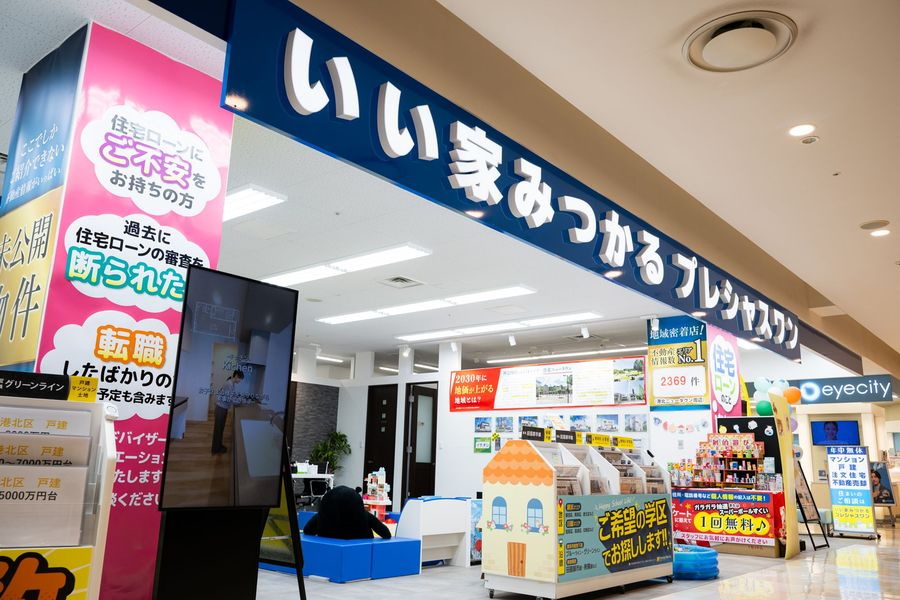
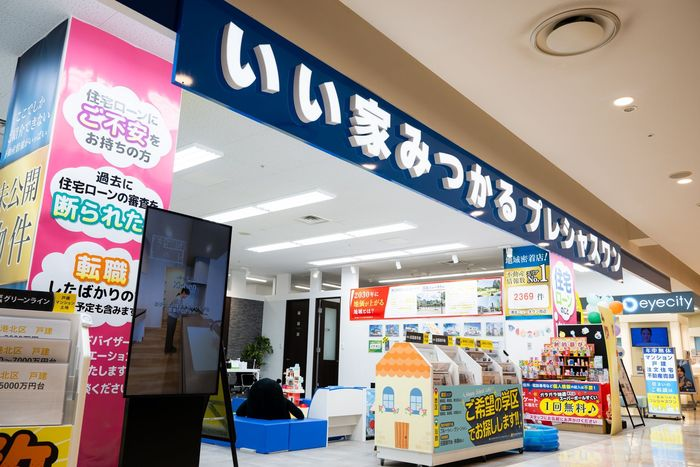
確認用ページを更新（a5ba87a）

diff --git a/index.html b/index.html
@@ -860,6 +860,10 @@ fbq('track', 'PageView');
   section[hidden]{display:none!important;}
   /* 企業情報の店舗写真：会社紹介の写真（.about-photo）と同じ表示。表の上に置くので上下の余白だけ調整 */
   .company-info .company-photo{margin-top:2.6em;margin-bottom:0;}
+  /* 店舗写真と外観写真を横に並べる（2枚合わせて会社紹介の写真1枚分の幅。どちらも16:9に切り抜く） */
+  .company-photo-pair{display:grid;grid-template-columns:1fr 1fr;gap:.5em;}
+  .company-photo-pair figure{margin:0;overflow:hidden;}
+  @media(max-width:760px){ .company-photo-pair{gap:.35em;} }
   .reserve h2{text-align:center;font-size:clamp(1.5rem,3.5vw,2.1rem);font-weight:400;letter-spacing:.18em;margin-bottom:.6em;color:var(--ivory);}
   .reserve .fsub{text-align:center;color:#c5beb2;font-size:1rem;letter-spacing:.1em;margin-bottom:4em;font-weight:300;}
   .fsub-sp{display:none;}
@@ -1995,7 +1999,10 @@ src="https://www.facebook.com/tr?id=954407957033133&ev=PageView&noscript=1"
   <div class="narrow company-info" id="companyInfo">
     <p class="company-info-label">Company</p>
     <h2>企業情報</h2>
-    <figure class="about-photo company-photo"><picture><source type="image/webp" srcset="company/store_sp.webp 900w, company/store.webp 2000w" sizes="(max-width:760px) 100vw, 710px"><img loading="lazy" decoding="async" src="company/store.jpg" srcset="company/store_sp.jpg 900w, company/store.jpg 2000w" sizes="(max-width:760px) 100vw, 710px" width="2000" height="1333" data-full="company/store.jpg" alt="いい家みつかるプレシャスワン 店舗（モザイクモール港北4F）"></picture></figure>
+    <div class="about-photo company-photo company-photo-pair">
+      <figure><picture><source type="image/webp" srcset="company/store_sp.webp 700w, company/store.webp 1200w" sizes="(max-width:760px) 50vw, 355px"><img loading="lazy" decoding="async" src="company/store.jpg" srcset="company/store_sp.jpg 700w, company/store.jpg 1200w" sizes="(max-width:760px) 50vw, 355px" width="1200" height="800" data-full="company/store.jpg" alt="いい家みつかるプレシャスワン 店舗（モザイクモール港北4F）"></picture></figure>
+      <figure><picture><source type="image/webp" srcset="company/exterior_sp.webp 700w, company/exterior.webp 1200w" sizes="(max-width:760px) 50vw, 355px"><img loading="lazy" decoding="async" src="company/exterior.jpg" srcset="company/exterior_sp.jpg 700w, company/exterior.jpg 1200w" sizes="(max-width:760px) 50vw, 355px" width="1200" height="900" data-full="company/exterior.jpg" alt="モザイクモール港北の外観"></picture></figure>
+    </div>
     <dl class="company-info-table">
       <dt>商号</dt>
       <dd>いい家みつかるプレシャスワン株式会社</dd>
